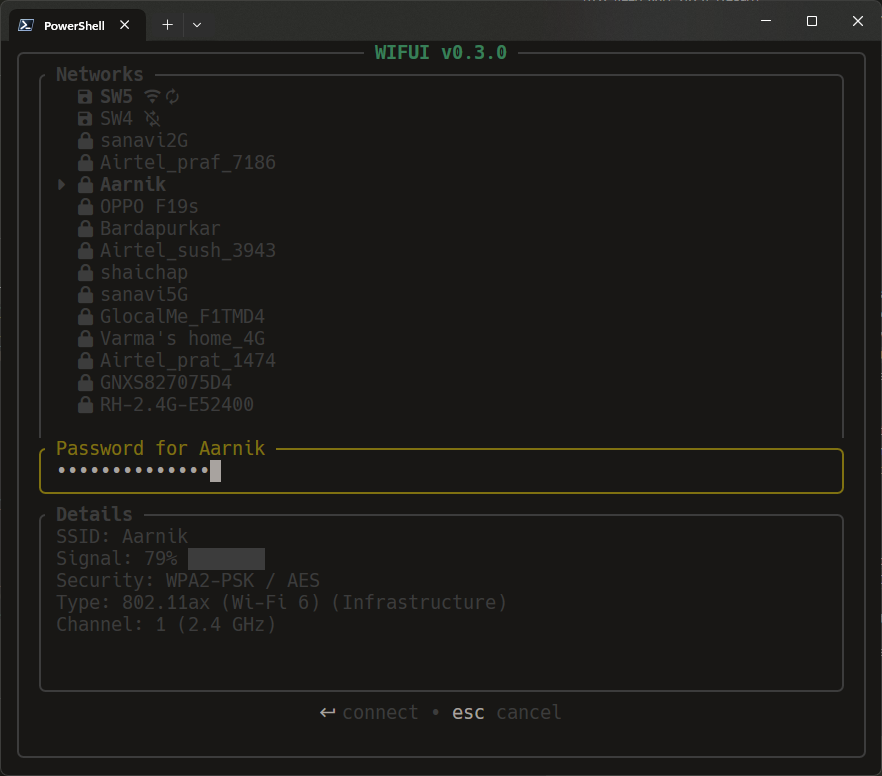
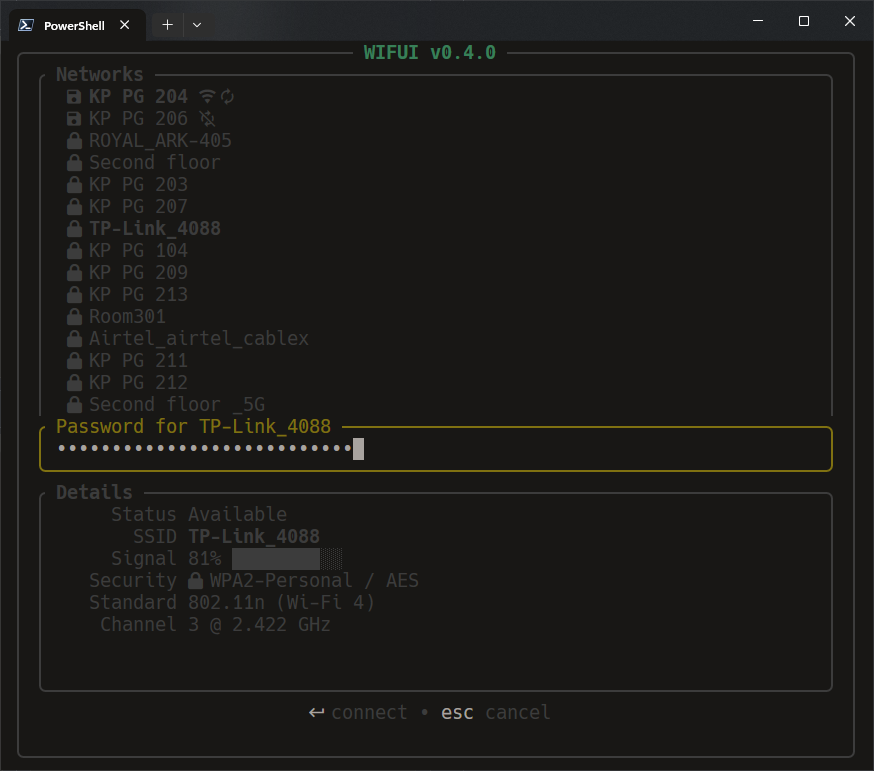
docs: update screenshots 0.4.0

diff --git a/README.md b/README.md
@@ -27,6 +27,8 @@
 | ![Home](images/main.png) | ![Search](images/addnetwork.png) |
 | Password | Search |
 | ![Password](images/password.png) | ![Search](images/search.png) |
+| Share |
+| ![Share](images/Share.png) |
 
 ## 📦 Installation
 
